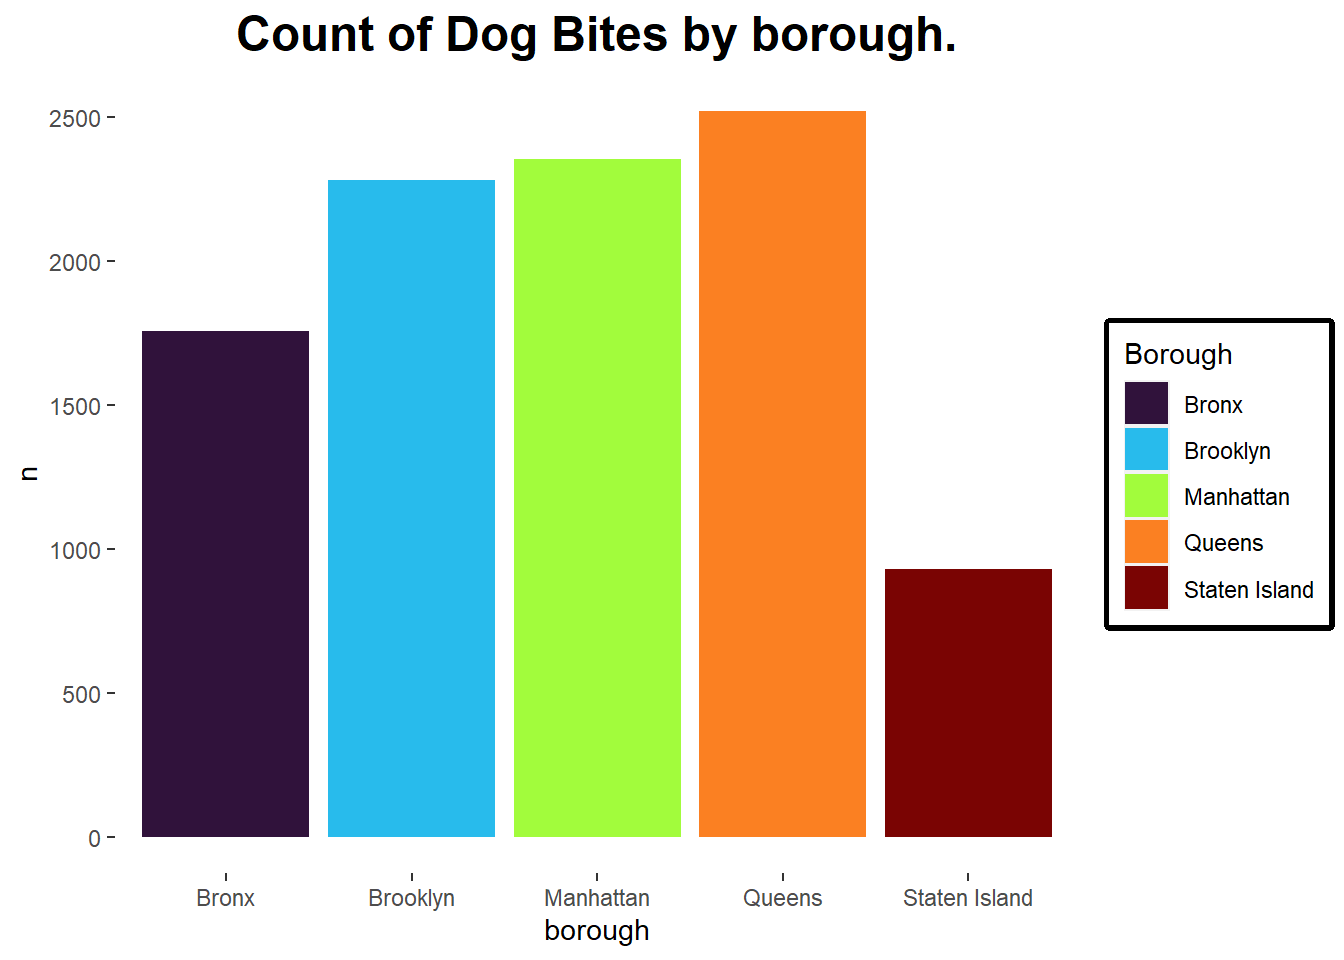
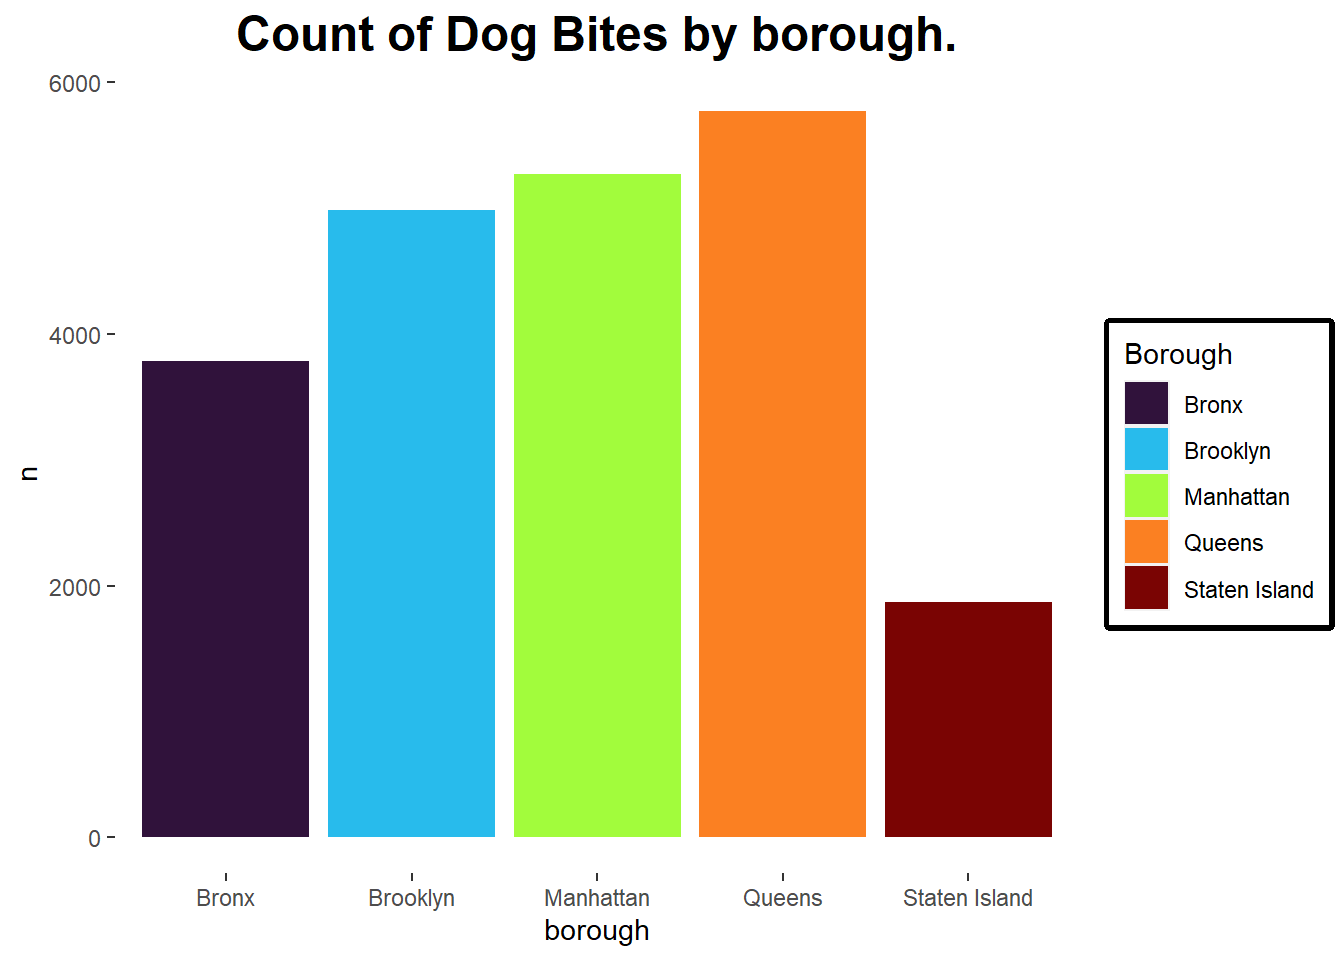
updated files

diff --git a/content/posts/2022-01-09-dog-bites-nyc/dog_bite_nyc.html b/content/posts/2022-01-09-dog-bites-nyc/dog_bite_nyc.html
@@ -17,6 +17,14 @@ tags:
 
 <div id="load-packages-and-data" class="section level2">
 <h2>Load packages and data</h2>
+<pre class="r"><code>knitr::opts_chunk$set(echo = TRUE, fig.show = &quot;static&quot;)
+library(tidyverse)
+library(RSocrata)
+library(tigris)
+library(sf)
+library(here)
+library(tmap)
+library(rgdal)</code></pre>
 <div id="you-can-get-the-data-from-here-httpsdata.cityofnewyork.ushealthdohmh-dog-bite-datarsgh-akpg" class="section level3">
 <h3>you can get the data from here <a href="https://data.cityofnewyork.us/Health/DOHMH-Dog-Bite-Data/rsgh-akpg" class="uri">https://data.cityofnewyork.us/Health/DOHMH-Dog-Bite-Data/rsgh-akpg</a></h3>
 <pre class="r"><code>dog_bite_raw &lt;- 
@@ -25,17 +33,17 @@ tags:
   filter(borough %in% c(&quot;Brooklyn&quot;, &quot;Manhattan&quot;, &quot;Queens&quot;, &quot;Bronx&quot;, &quot;Staten Island&quot;))
 
 glimpse(dog_bite_raw)</code></pre>
-<pre><code>## Rows: 9,843
+<pre><code>## Rows: 21,682
 ## Columns: 9
 ## $ uniqueid   &lt;int&gt; 1, 2, 3, 4, 5, 6, 7, 8, 9, 10, 11, 12, 13, 14, 15, 16, 17, ~
-## $ dateofbite &lt;dttm&gt; 2015-01-02, 2015-01-02, 2015-01-02, 2015-01-01, 2015-01-03~
+## $ dateofbite &lt;dttm&gt; 2018-01-01, 2018-01-04, 2018-01-06, 2018-01-08, 2018-01-09~
 ## $ species    &lt;chr&gt; &quot;DOG&quot;, &quot;DOG&quot;, &quot;DOG&quot;, &quot;DOG&quot;, &quot;DOG&quot;, &quot;DOG&quot;, &quot;DOG&quot;, &quot;DOG&quot;, &quot;DO~
-## $ breed      &lt;chr&gt; &quot;Poodle, Standard&quot;, &quot;HUSKY&quot;, &quot;&quot;, &quot;American Pit Bull Terrier~
-## $ age        &lt;chr&gt; &quot;3&quot;, &quot;&quot;, &quot;&quot;, &quot;6&quot;, &quot;1&quot;, &quot;1&quot;, &quot;1&quot;, &quot;1&quot;, &quot;&quot;, &quot;&quot;, &quot;&quot;, &quot;&quot;, &quot;4&quot;, ~
-## $ gender     &lt;chr&gt; &quot;M&quot;, &quot;U&quot;, &quot;U&quot;, &quot;M&quot;, &quot;M&quot;, &quot;F&quot;, &quot;M&quot;, &quot;M&quot;, &quot;M&quot;, &quot;U&quot;, &quot;U&quot;, &quot;U&quot;,~
-## $ spayneuter &lt;chr&gt; &quot;true&quot;, &quot;false&quot;, &quot;false&quot;, &quot;false&quot;, &quot;false&quot;, &quot;false&quot;, &quot;false~
+## $ breed      &lt;chr&gt; &quot;UNKNOWN&quot;, &quot;UNKNOWN&quot;, &quot;Pit Bull&quot;, &quot;Mixed/Other&quot;, &quot;Pit Bull&quot;~
+## $ age        &lt;chr&gt; &quot;&quot;, &quot;&quot;, &quot;&quot;, &quot;4&quot;, &quot;&quot;, &quot;4Y&quot;, &quot;&quot;, &quot;&quot;, &quot;5Y&quot;, &quot;3Y&quot;, &quot;&quot;, &quot;7&quot;, &quot;6&quot;~
+## $ gender     &lt;chr&gt; &quot;U&quot;, &quot;U&quot;, &quot;U&quot;, &quot;M&quot;, &quot;U&quot;, &quot;M&quot;, &quot;U&quot;, &quot;U&quot;, &quot;M&quot;, &quot;F&quot;, &quot;U&quot;, &quot;M&quot;,~
+## $ spayneuter &lt;chr&gt; &quot;false&quot;, &quot;false&quot;, &quot;false&quot;, &quot;false&quot;, &quot;false&quot;, &quot;false&quot;, &quot;fals~
 ## $ borough    &lt;chr&gt; &quot;Brooklyn&quot;, &quot;Brooklyn&quot;, &quot;Brooklyn&quot;, &quot;Brooklyn&quot;, &quot;Brooklyn&quot;,~
-## $ zipcode    &lt;chr&gt; &quot;11238&quot;, &quot;11249&quot;, NA, &quot;11221&quot;, &quot;11207&quot;, &quot;11209&quot;, &quot;11220&quot;, &quot;~</code></pre>
+## $ zipcode    &lt;chr&gt; &quot;11220&quot;, NA, &quot;11224&quot;, &quot;11231&quot;, &quot;11224&quot;, &quot;11231&quot;, NA, &quot;11233~</code></pre>
 </div>
 </div>
 <div id="count-how-many-dog-bites-in-each-borough-plots" class="section level2">
@@ -45,11 +53,11 @@ glimpse(dog_bite_raw)</code></pre>
 <pre><code>## # A tibble: 5 x 2
 ##   borough           n
 ##   &lt;chr&gt;         &lt;int&gt;
-## 1 Bronx          1757
-## 2 Brooklyn       2281
-## 3 Manhattan      2354
-## 4 Queens         2520
-## 5 Staten Island   931</code></pre>
+## 1 Bronx          3782
+## 2 Brooklyn       4985
+## 3 Manhattan      5270
+## 4 Queens         5773
+## 5 Staten Island  1872</code></pre>
 <pre class="r"><code># top dogs
 dog_bite_raw %&gt;%
   mutate(
@@ -207,8 +215,6 @@ ny &lt;- tigris::zctas(year = 2010, state = &quot;NY&quot;)</code></pre>
   |                                                                            
   |==================                                                    |  26%
   |                                                                            
-  |===================                                                   |  26%
-  |                                                                            
   |===================                                                   |  27%
   |                                                                            
   |===================                                                   |  28%
@@ -240,8 +246,6 @@ ny &lt;- tigris::zctas(year = 2010, state = &quot;NY&quot;)</code></pre>
   |=========================                                             |  35%
   |                                                                            
   |=========================                                             |  36%
-  |                                                                            
-  |==========================                                            |  36%
   |                                                                            
   |==========================                                            |  37%
   |                                                                            
@@ -343,8 +347,6 @@ ny &lt;- tigris::zctas(year = 2010, state = &quot;NY&quot;)</code></pre>
   |                                                                            
   |==============================================                        |  66%
   |                                                                            
-  |===============================================                       |  66%
-  |                                                                            
   |===============================================                       |  67%
   |                                                                            
   |===============================================                       |  68%
@@ -374,8 +376,6 @@ ny &lt;- tigris::zctas(year = 2010, state = &quot;NY&quot;)</code></pre>
   |=====================================================                 |  75%
   |                                                                            
   |=====================================================                 |  76%
-  |                                                                            
-  |======================================================                |  76%
   |                                                                            
   |======================================================                |  77%
   |                                                                            
@@ -431,8 +431,6 @@ ny &lt;- tigris::zctas(year = 2010, state = &quot;NY&quot;)</code></pre>
   |                                                                            
   |=================================================================     |  93%
   |                                                                            
-  |=================================================================     |  94%
-  |                                                                            
   |==================================================================    |  94%
   |                                                                            
   |==================================================================    |  95%
@@ -465,12 +463,12 @@ head(dog_bite_raw)   </code></pre>
 <pre><code>## # A tibble: 6 x 9
 ##   uniqueid dateofbite          species breed     age   gender spayneuter borough
 ##      &lt;int&gt; &lt;dttm&gt;              &lt;chr&gt;   &lt;chr&gt;     &lt;chr&gt; &lt;chr&gt;  &lt;chr&gt;      &lt;chr&gt;  
-## 1        1 2015-01-02 00:00:00 DOG     &quot;Poodle,~ &quot;3&quot;   M      true       Brookl~
-## 2        2 2015-01-02 00:00:00 DOG     &quot;HUSKY&quot;   &quot;&quot;    U      false      Brookl~
-## 3        3 2015-01-02 00:00:00 DOG     &quot;&quot;        &quot;&quot;    U      false      Brookl~
-## 4        4 2015-01-01 00:00:00 DOG     &quot;America~ &quot;6&quot;   M      false      Brookl~
-## 5        5 2015-01-03 00:00:00 DOG     &quot;America~ &quot;1&quot;   M      false      Brookl~
-## 6        6 2015-01-05 00:00:00 DOG     &quot;America~ &quot;1&quot;   F      false      Brookl~
+## 1        1 2018-01-01 00:00:00 DOG     UNKNOWN   &quot;&quot;    U      false      Brookl~
+## 2        2 2018-01-04 00:00:00 DOG     UNKNOWN   &quot;&quot;    U      false      Brookl~
+## 3        3 2018-01-06 00:00:00 DOG     Pit Bull  &quot;&quot;    U      false      Brookl~
+## 4        4 2018-01-08 00:00:00 DOG     Mixed/Ot~ &quot;4&quot;   M      false      Brookl~
+## 5        5 2018-01-09 00:00:00 DOG     Pit Bull  &quot;&quot;    U      false      Brookl~
+## 6        6 2018-01-03 00:00:00 DOG     BASENJI   &quot;4Y&quot;  M      false      Brookl~
 ## # ... with 1 more variable: zipcode &lt;chr&gt;</code></pre>
 <pre class="r"><code>head(nyc)</code></pre>
 <pre><code>## Simple feature collection with 6 features and 1 field
